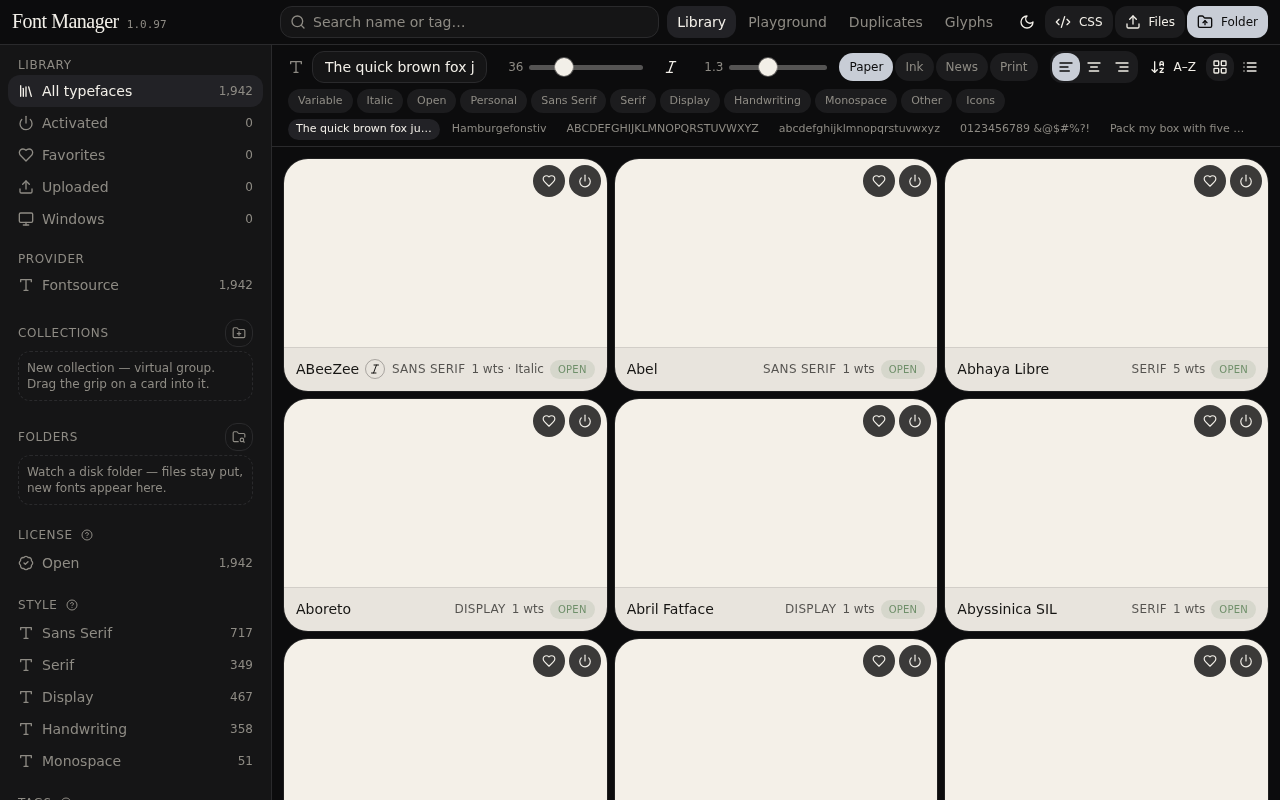
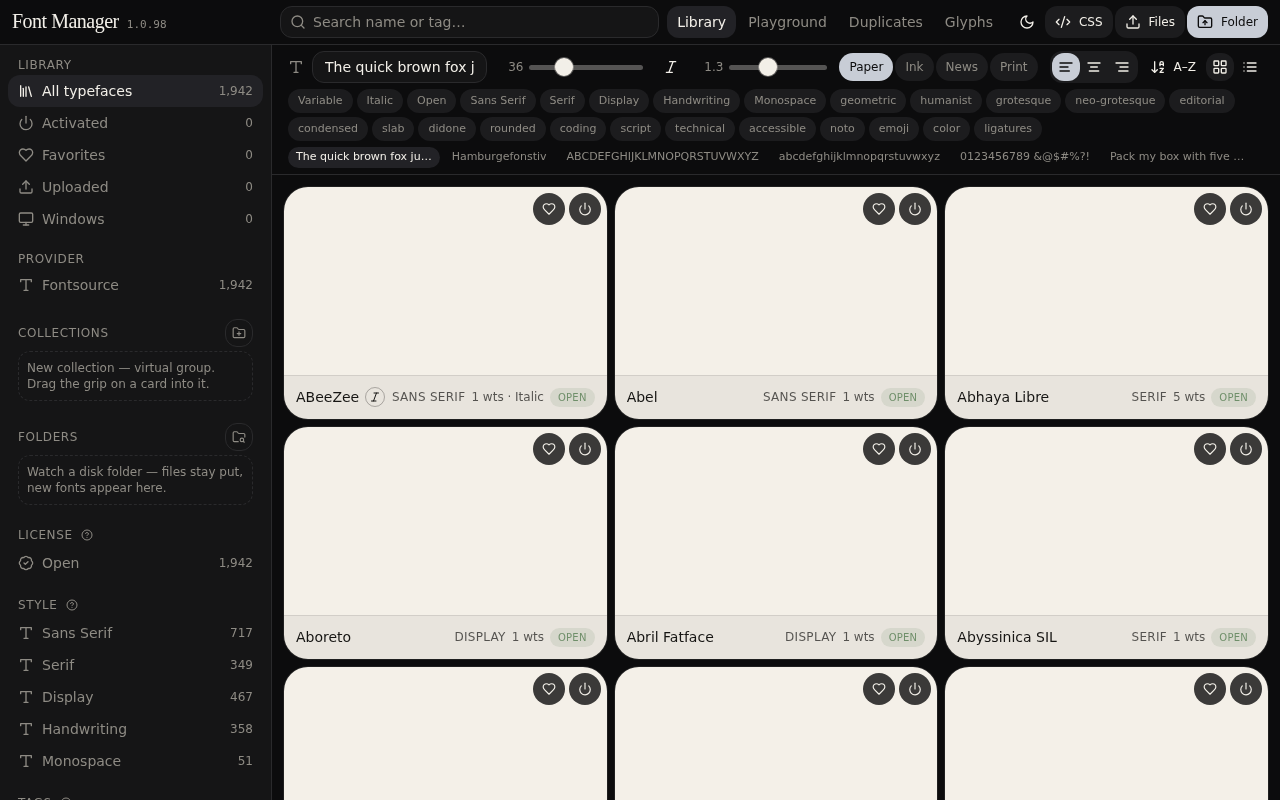
Font Manager 1.0.98 — header chips match sidebar facets
License, style, and tag chips only appear when the catalog has that facet. Personal is hidden until personal-use files exist. Variable and Italic stay if any family has them.

diff --git a/src/components/font-studio/search-chips.tsx b/src/components/font-studio/search-chips.tsx
@@ -1,21 +1,17 @@
-import { useFontStore } from "@/lib/fonts/store";
-import type { FontCategory, FontLicense } from "@/lib/fonts/types";
-import { CATEGORY_LABEL, LICENSE_LABEL } from "@/lib/fonts/types";
+import { useMemo } from "react";
+import { fontLicense } from "@/lib/fonts/license";
+import { allFonts, tagsFor, useFontStore } from "@/lib/fonts/store";
+import type { FontCategory, FontLicense, LibraryScope } from "@/lib/fonts/types";
+import {
+  CATEGORY_LABEL,
+  CATEGORY_ORDER,
+  LICENSE_LABEL,
+  LICENSE_OPTIONS,
+  TAG_ORDER,
+} from "@/lib/fonts/types";
 import { cn } from "@/lib/utils";
 
-const CHIPS: { token: string; label: string; scope?: `license:${FontLicense}` | `category:${FontCategory}` }[] = [
-  { token: "variable", label: "Variable" },
-  { token: "italic", label: "Italic" },
-  { token: "license:free", label: LICENSE_LABEL.free, scope: "license:free" },
-  { token: "license:personal", label: LICENSE_LABEL.personal, scope: "license:personal" },
-  { token: "sans", label: CATEGORY_LABEL.sans, scope: "category:sans" },
-  { token: "serif", label: CATEGORY_LABEL.serif, scope: "category:serif" },
-  { token: "display", label: CATEGORY_LABEL.display, scope: "category:display" },
-  { token: "handwriting", label: CATEGORY_LABEL.handwriting, scope: "category:handwriting" },
-  { token: "mono", label: CATEGORY_LABEL.mono, scope: "category:mono" },
-  { token: "other", label: CATEGORY_LABEL.other, scope: "category:other" },
-  { token: "icons", label: CATEGORY_LABEL.icons, scope: "category:icons" },
-];
+type Chip = { token: string; label: string; scope?: LibraryScope };
 
 function hasToken(query: string, token: string) {
   return query
@@ -37,10 +33,66 @@ export function SearchChips() {
   const setQuery = useFontStore((s) => s.setQuery);
   const scope = useFontStore((s) => s.scope);
   const setScope = useFontStore((s) => s.setScope);
+  const localFonts = useFontStore((s) => s.localFonts);
+  const googleFonts = useFontStore((s) => s.googleFonts);
+  const customTags = useFontStore((s) => s.customTags);
+
+  const chips = useMemo(() => {
+    const list = allFonts(localFonts, googleFonts);
+    const license: Record<FontLicense, number> = {
+      free: 0,
+      freeware: 0,
+      personal: 0,
+      commercial: 0,
+      unknown: 0,
+    };
+    const category: Record<FontCategory, number> = {
+      sans: 0,
+      serif: 0,
+      display: 0,
+      handwriting: 0,
+      mono: 0,
+      other: 0,
+      icons: 0,
+    };
+    const tags = new Map<string, number>();
+    let variable = 0;
+    let italic = 0;
+    for (const font of list) {
+      license[fontLicense(font)] += 1;
+      category[font.category] += 1;
+      if (font.variable) variable += 1;
+      if (font.italic) italic += 1;
+      for (const tag of tagsFor(font, customTags)) {
+        if ((TAG_ORDER as readonly string[]).includes(tag)) {
+          tags.set(tag, (tags.get(tag) ?? 0) + 1);
+        }
+      }
+    }
+    const out: Chip[] = [];
+    if (variable) out.push({ token: "variable", label: "Variable" });
+    if (italic) out.push({ token: "italic", label: "Italic" });
+    for (const id of LICENSE_OPTIONS) {
+      if (license[id] > 0) {
+        out.push({ token: `license:${id}`, label: LICENSE_LABEL[id], scope: `license:${id}` });
+      }
+    }
+    for (const id of CATEGORY_ORDER) {
+      if (category[id] > 0) {
+        out.push({ token: `category:${id}`, label: CATEGORY_LABEL[id], scope: `category:${id}` });
+      }
+    }
+    for (const tag of TAG_ORDER) {
+      if ((tags.get(tag) ?? 0) > 0) {
+        out.push({ token: `tag:${tag}`, label: tag, scope: `tag:${tag}` });
+      }
+    }
+    return out;
+  }, [localFonts, googleFonts, customTags]);
 
   return (
     <div className="flex flex-wrap items-center gap-1" role="group" aria-label="Quick filters">
-      {CHIPS.map((chip) => {
+      {chips.map((chip) => {
         const on = chip.scope ? scope === chip.scope : hasToken(query, chip.token);
         return (
           <button

diff --git a/src/components/font-studio/sidebar.tsx b/src/components/font-studio/sidebar.tsx
@@ -21,11 +21,9 @@ import { ALL_TAGS } from "@/lib/fonts/catalog";
 import { fontLicense } from "@/lib/fonts/license";
 import { UNTRUSTED_FONT_SOURCES } from "@/lib/fonts/style-tags";
 import { allFonts, tagsFor, useFontStore } from "@/lib/fonts/store";
-import type { FontCategory, FontLicense, LibraryScope } from "@/lib/fonts/types";
-import { CATEGORY_LABEL, LICENSE_LABEL } from "@/lib/fonts/types";
+import type { FontLicense, LibraryScope } from "@/lib/fonts/types";
+import { CATEGORY_LABEL, CATEGORY_ORDER, LICENSE_LABEL, TAG_ORDER } from "@/lib/fonts/types";
 import { cn } from "@/lib/utils";
-
-const CATEGORIES: FontCategory[] = ["sans", "serif", "display", "handwriting", "mono", "other", "icons"];
 
 const LICENSE_NAV: { id: FontLicense; icon: typeof Library }[] = [
   { id: "free", icon: BadgeCheck },
@@ -33,26 +31,6 @@ const LICENSE_NAV: { id: FontLicense; icon: typeof Library }[] = [
   { id: "personal", icon: User },
   { id: "commercial", icon: Briefcase },
   { id: "unknown", icon: CircleHelp },
-];
-
-const SIDEBAR_TAGS = [
-  "geometric",
-  "humanist",
-  "grotesque",
-  "neo-grotesque",
-  "editorial",
-  "condensed",
-  "slab",
-  "didone",
-  "rounded",
-  "coding",
-  "script",
-  "technical",
-  "accessible",
-  "noto",
-  "emoji",
-  "color",
-  "ligatures",
 ];
 
 const KNOWN_TAGS = new Set(ALL_TAGS);
@@ -114,7 +92,7 @@ export function Sidebar({
       license[fontLicense(font)] += 1;
       category[font.category] += 1;
       for (const tag of tagsFor(font, customTags)) {
-        if (KNOWN_TAGS.has(tag) && SIDEBAR_TAGS.includes(tag)) {
+        if (KNOWN_TAGS.has(tag) && (TAG_ORDER as readonly string[]).includes(tag)) {
           tags.set(tag, (tags.get(tag) ?? 0) + 1);
         }
       }
@@ -222,7 +200,7 @@ export function Sidebar({
               Style
               <SidebarHint label={STYLE_TIP} ariaLabel="About style classification" icon={<CircleHelp className="size-3" />} />
             </p>
-            {CATEGORIES.filter((category) => counts.category[category] > 0).map((category) => (
+            {CATEGORY_ORDER.filter((category) => counts.category[category] > 0).map((category) => (
               <SidebarRow
                 key={category}
                 active={scope === `category:${category}`}
@@ -242,7 +220,7 @@ export function Sidebar({
               <SidebarHint label={TAGS_TIP} ariaLabel="About inferred tags" icon={<CircleHelp className="size-3" />} />
             </p>
             <div className="flex flex-wrap gap-1 px-1.5 pb-8">
-              {SIDEBAR_TAGS.filter((tag) => (counts.tags.get(tag) ?? 0) > 0).map((tag) => (
+              {TAG_ORDER.filter((tag) => (counts.tags.get(tag) ?? 0) > 0).map((tag) => (
                 <button
                   key={tag}
                   type="button"

diff --git a/src/lib/fonts/types.ts b/src/lib/fonts/types.ts
@@ -94,6 +94,36 @@ export const CATEGORY_LABEL: Record<FontCategory, string> = {
   icons: "Icons",
 };
 
+export const CATEGORY_ORDER: FontCategory[] = [
+  "sans",
+  "serif",
+  "display",
+  "handwriting",
+  "mono",
+  "other",
+  "icons",
+];
+
+export const TAG_ORDER = [
+  "geometric",
+  "humanist",
+  "grotesque",
+  "neo-grotesque",
+  "editorial",
+  "condensed",
+  "slab",
+  "didone",
+  "rounded",
+  "coding",
+  "script",
+  "technical",
+  "accessible",
+  "noto",
+  "emoji",
+  "color",
+  "ligatures",
+] as const;
+
 export const LICENSE_OPTIONS: FontLicense[] = ["free", "freeware", "personal", "commercial", "unknown"];
 
 export const LICENSE_LABEL: Record<FontLicense, string> = {

diff --git a/src/version.ts b/src/version.ts
@@ -1,3 +1,3 @@
 export const APP_NAME = "Font Manager";
-export const APP_VERSION = "1.0.97";
+export const APP_VERSION = "1.0.98";
 export const APP_TITLE = APP_NAME;

diff --git a/README.md b/README.md
@@ -1,12 +1,12 @@
-# Font Manager **1.0.97**
+# Font Manager **1.0.98**
 
 **TL;DR.** FontBase-style desktop typeface library. Browse Fontsource families (TTF-first), upload TTF/OTF/WOFF/WOFF2/TTC, **Activate** so Word, Adobe, and Figma can use them while this window is open. Files live in `Documents / Font Manager`. This website is the same UI — a dress rehearsal before `deploy.bat`.
 
-Version **1.0.97** sits next to the logo, not in the window title.
+Version **1.0.98** sits next to the logo, not in the window title.
 
-**1.0.97** — Library preview CSS is Fontsource on jsDelivr (`cdn.jsdelivr.net/fontsource/css/{id}@latest/index.css`). No `fonts.googleapis.com`. Style filter is the 7 Fontsource categories (Sans Serif, Serif, Display, Handwriting, Monospace, Other, Icons).
+**1.0.98** — Header chips match the sidebar: only licenses, styles, and tags that have fonts. Personal stays hidden until you have personal-use files. Variable / Italic still appear when the catalog has them.
 
-**1.0.96** — Fontsource provider. **1.0.95** — fallback cap. **1.0.94** — WM_FONTCHANGE debounce. **1.0.91** — sequential activate.
+**1.0.97** — Fontsource CSS preview, 7 style categories. **1.0.96** — Fontsource provider. **1.0.95** — fallback cap.
 
 **1.0.90** — Scan before download flag. **1.0.89** — session restore + slider persist. **1.0.88** — card/inspector axes share a store. **1.0.86** — Fontsource TTF for WOFF2-only families. **1.0.85** — Deactivate keeps files.
 
@@ -155,7 +155,7 @@ Google downloads sit in `Documents / Font Manager`. They are not listed as a sep
 
 ---
 
-## Next version (not in 1.0.97)
+## Next version (not in 1.0.98)
 
 - Signed installer + auto-update (SmartScreen / Store) — needs a code-signing cert.
 - Native WOFF2 → TTF in Rust — Fontsource TTF already covers install.
@@ -234,11 +234,11 @@ Opening the inspector reads GSUB/GPOS from the TTF. Switches set `font-variant-l
 | Symptom | What to do |
 | --- | --- |
 | First Activate is slow | That family is downloading. Next launch registers the file on disk — no fetch. |
-| `tauri.conf.json` parse error | Version must be `"1.0.97",` — **one** comma. |
+| `tauri.conf.json` parse error | Version must be `"1.0.98",` — **one** comma. |
 | Word doesn’t list the face yet | Wait a second; open the font menu again. |
 | OT toggles do nothing | Use the demo line, not the pangram. Confirm the file actually has that tag. |
 | Display face clipped | Library cards shrink-to-fit (min 13px). Inspector alphabet wraps with `overflow-wrap: anywhere`. |
-| Can’t install — **Unable to uninstall** / **Error launching installer** | Double-click **`fix-install.bat`**. Rebuild with **1.0.97** (`deploy.bat`). Right-click setup → Properties → **Unblock** if Windows marked the file. |
+| Can’t install — **Unable to uninstall** / **Error launching installer** | Double-click **`fix-install.bat`**. Rebuild with **1.0.98** (`deploy.bat`). Right-click setup → Properties → **Unblock** if Windows marked the file. |
 | Build window closed after `index.html` | That was only the UI pack. Re-run `deploy.bat` and wait for Explorer. |
 | MSI missing, only setup.exe | Install [WiX Toolset v3](https://wixtoolset.org), then `deploy.bat` again. NSIS is enough to install. |
 
